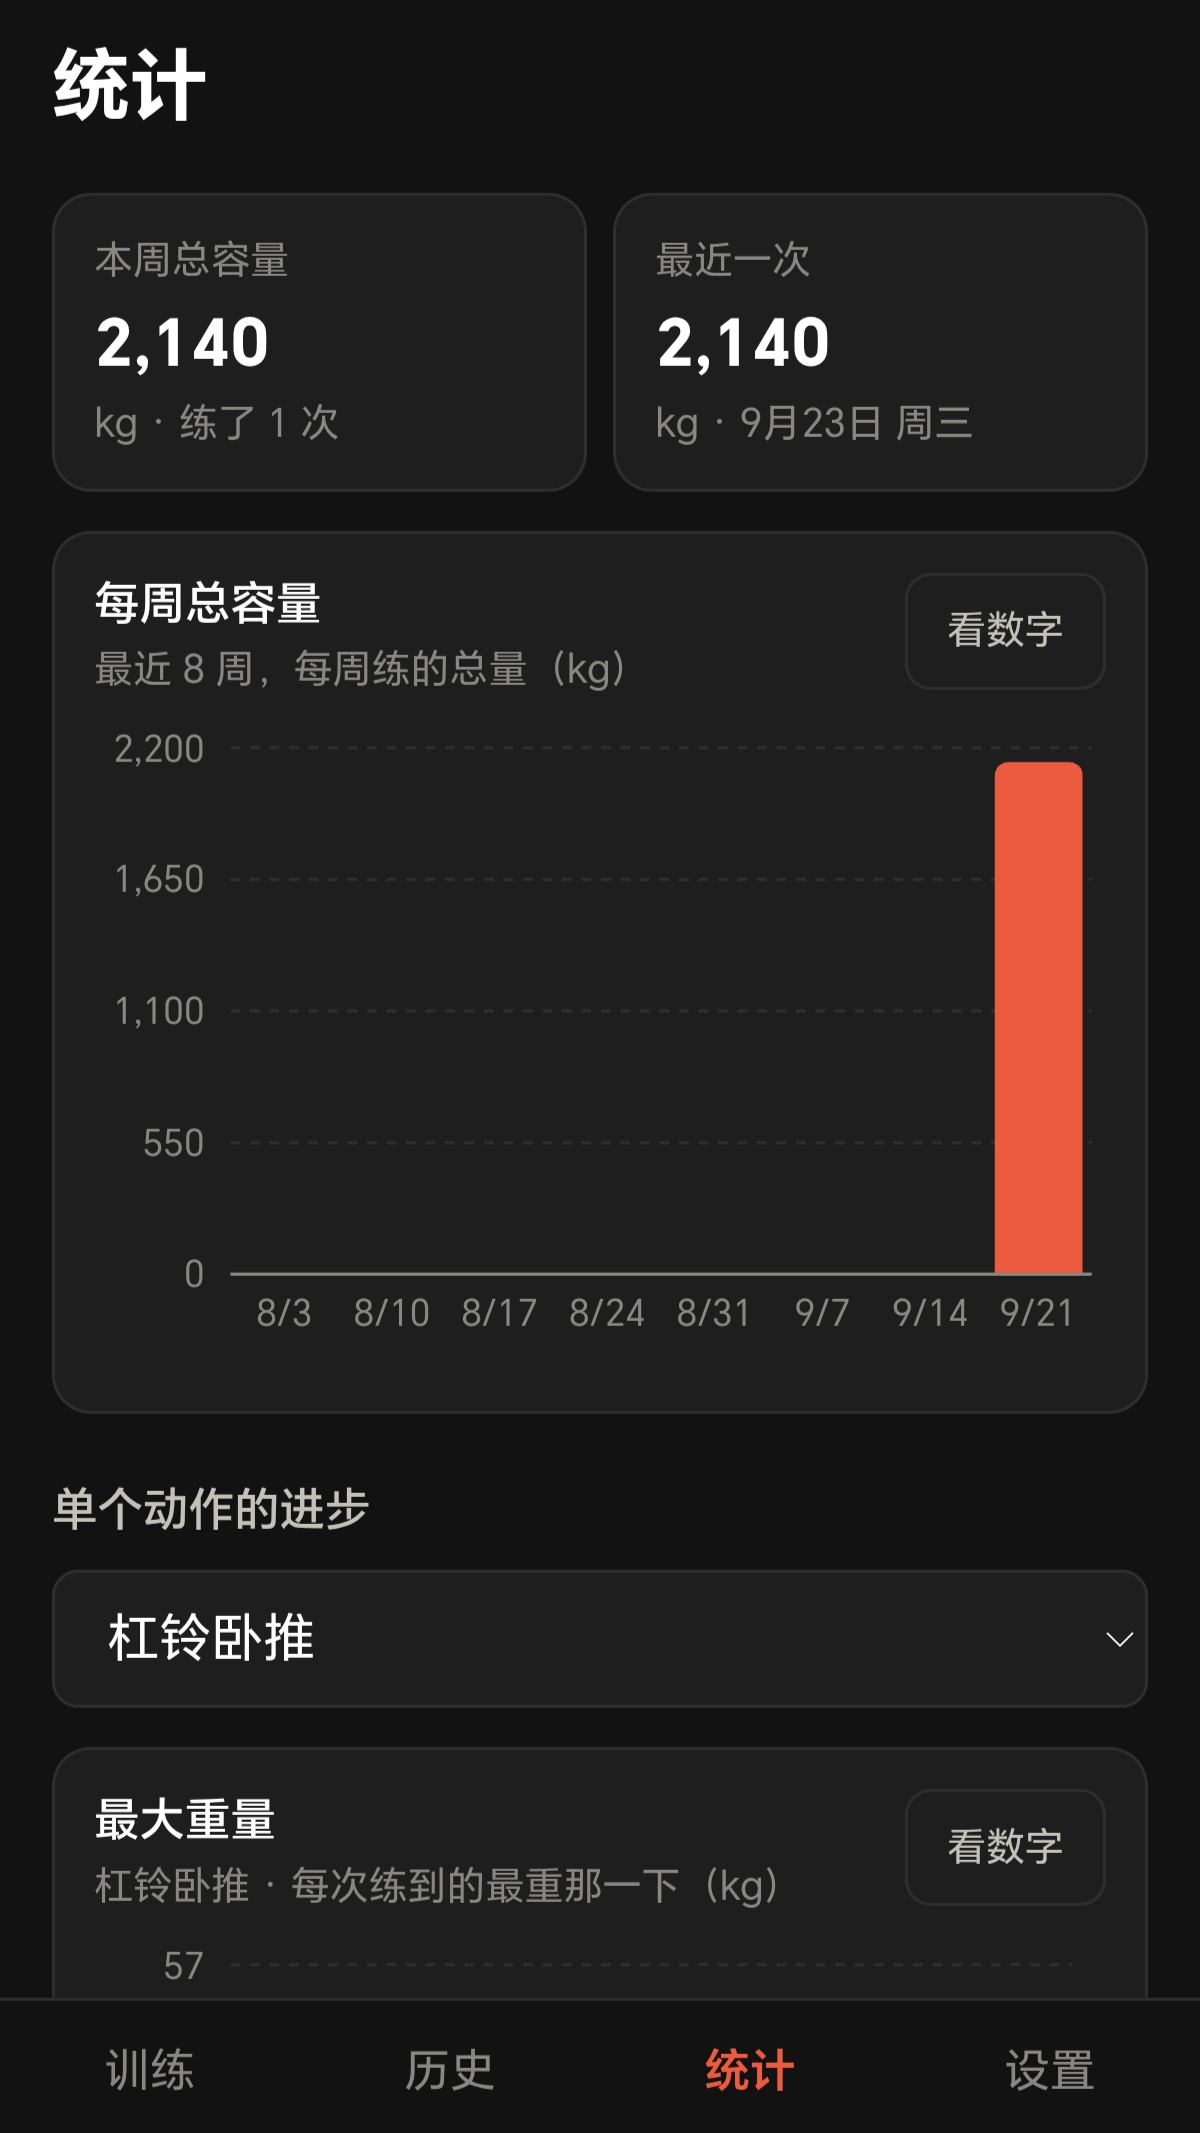
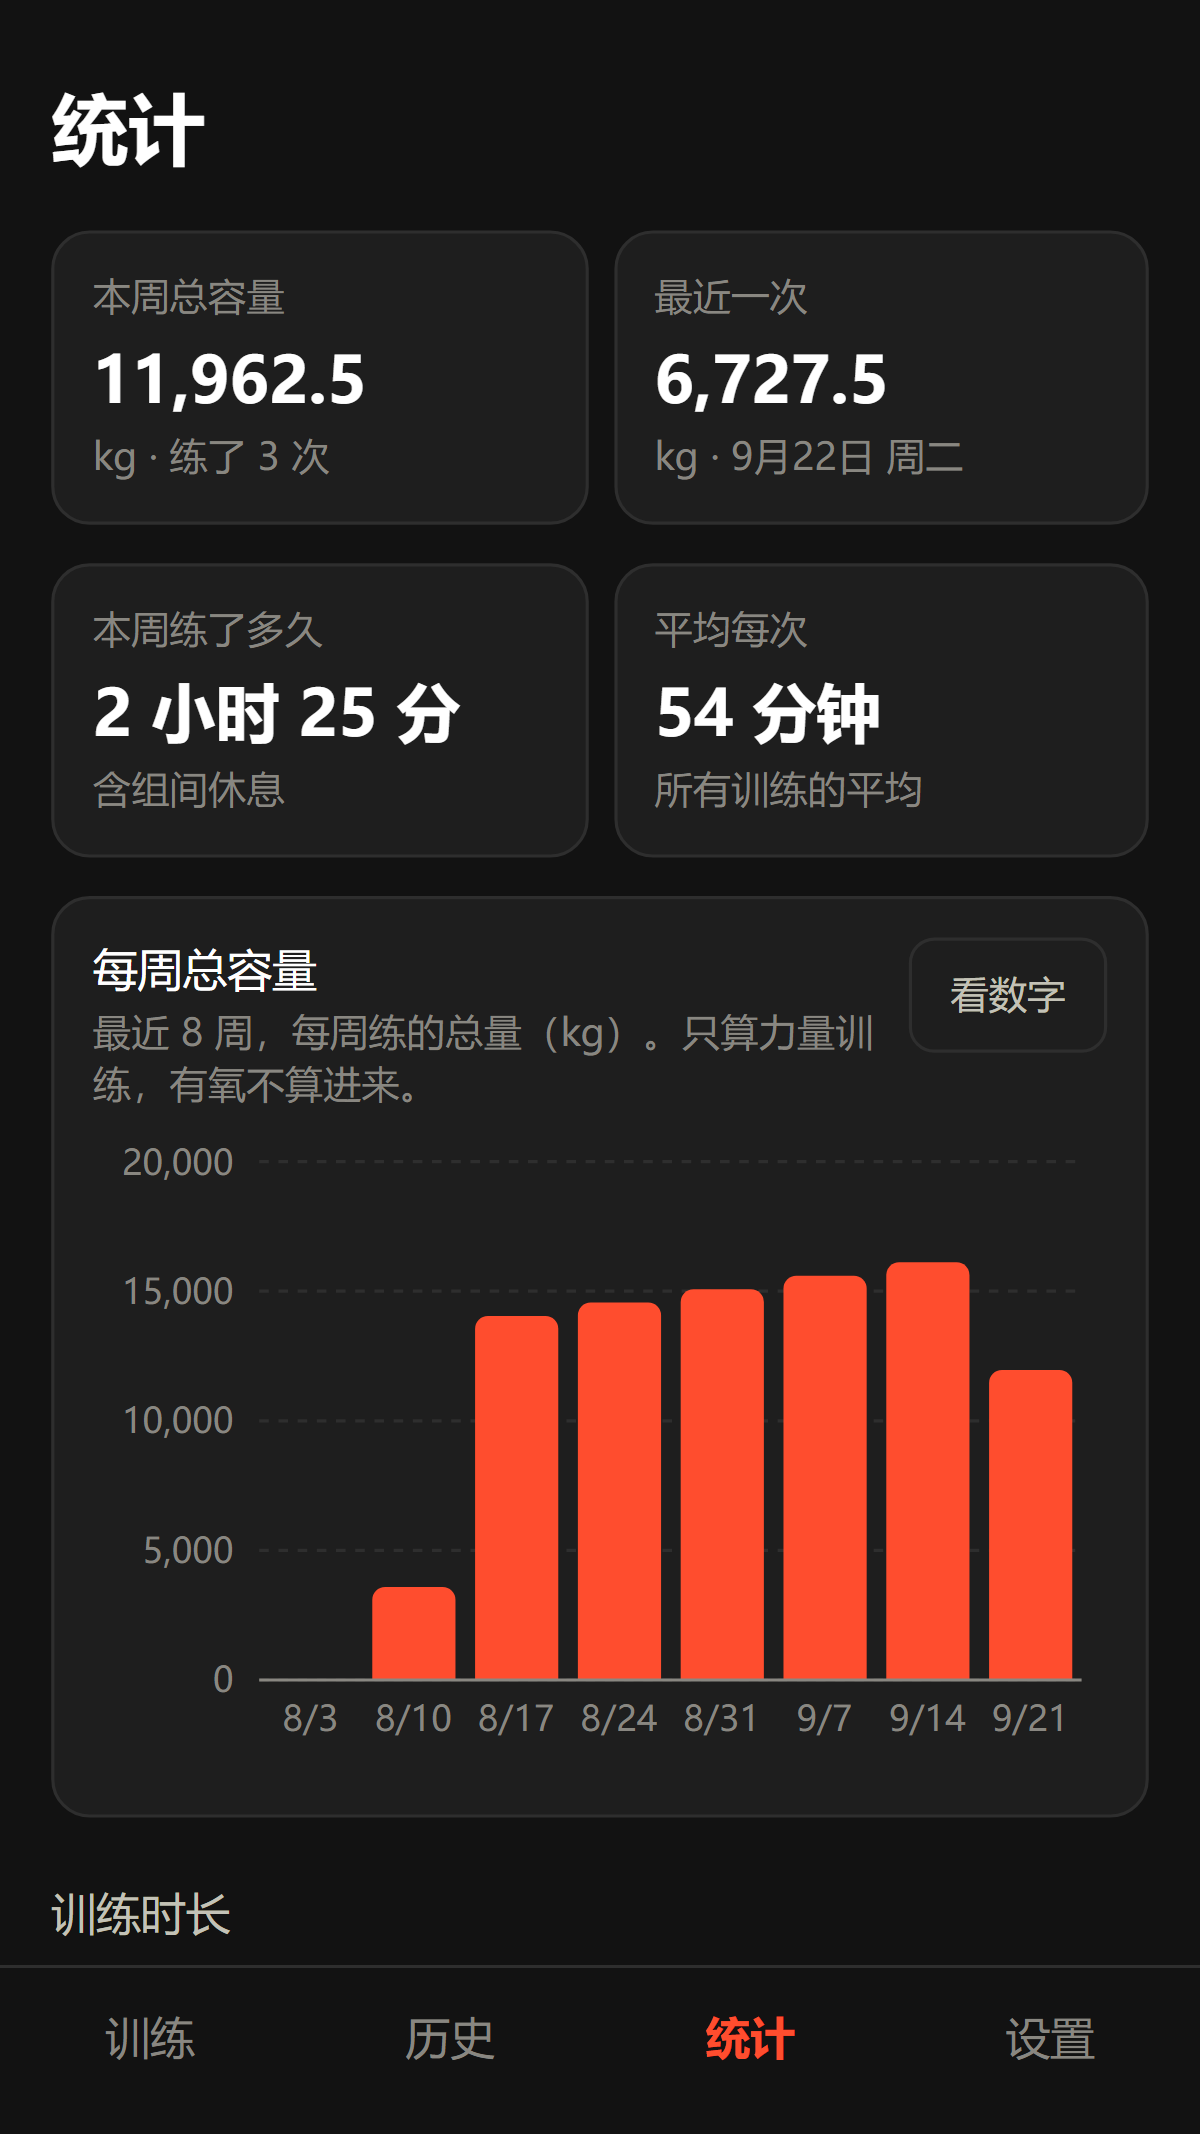
README：换掉三张过时的截图，更新"当前状态"
【为什么换截图】
原来那三张是 2026-09-23 拍的，比现在少了：
· 训练页顶部的"已练 XX 分钟"
· "+ 记有氧"按钮（有氧记录是 9-24 才加的）
而正文里"有氧记录"是重点介绍的功能之一 —— 图和正文对不上，
对公开仓库的首页来说这个不能忍。

新截图按原图同样的尺寸截（375×667 手机屏 ×3.2 = 1200×2133），
所以 README 里的排版一模一样，不用动。

【造数据的两个坑】
1. ★ 训练页一开始塞了"两个动作、四组"，结果底下的按钮排被切掉一半，
   "+ 记有氧"整个在屏幕外 —— 恰恰是最该露出来的那个。
   改成"一个动作、三组"之后，三个按钮 + 底部 tab 正好全在屏内。
2. 统计页原来那句"只练过一次，所以只有一根柱子"改成实话：
   造了 6 周、每周三次（推/拉/腿）+ 两次有氧 + 每周体重，
   柱状图是往上走的，四个数字卡片也都填满了。

【README 文字也跟着改了三处】
· "三张都是真机上直接截的"→"按手机尺寸直接截的"。
  ★ 不能把电脑截的说成真机截的 —— 渲染是同一份代码，但话得说准。
  同时说明里面是示例数据（不填的话统计页是空的）。
· 统计页的图注重写（原来那句"只有一根柱子"已经不成立）
· "当前状态"更新到 52ce72c，并把验收进度写准：
  9-23 验过；9-26 的 a112b45 真机两轮实测通过；
  它之后的两个包（118ff04、52ce72c）还没上过真机。

diff --git a/README.md b/README.md
@@ -15,7 +15,9 @@
 
 ## 长什么样
 
-三张都是**真机上直接截的**，没有美化。
+三张都是**按手机尺寸直接截的**（375×667），没有美化、没有修图。
+里面的训练记录是**示例数据** —— 不填点东西的话统计页那几张图是空的，
+没法看出它长什么样。界面本身是什么样，图上就是什么样。
 
 <p align="center">
   <img src="screenshots/train.png" width="600" alt="训练页" />
@@ -34,8 +36,9 @@
 <p align="center">
   <img src="screenshots/stats.png" width="600" alt="统计页" />
   <br />
-  <em>统计页 —— 每周总容量的柱状图（截这张时只练过一次，所以只有一根柱子）。<br />
-  往下还有单个动作的最大重量、总容量、估算 1RM 三条曲线。</em>
+  <em>统计页 —— 顶上四个数：本周总容量、最近一次、本周练了多久、平均每次。<br />
+  下面是每周总容量的柱状图；再往下还有训练时长趋势、单个动作的
+  最大重量 / 总容量 / 估算 1RM 三条曲线、有氧的记录、体重体脂。</em>
 </p>
 
 ---
@@ -307,14 +310,16 @@ cd android
 第一次跑要 2 分钟左右，之后改代码再打会快很多（改完网页代码要**先**
 `npm run build && npx cap sync android`，否则打进包里的是旧网页资源）。
 
-> ✅ **当前状态**：最新一个包是 **2026-09-26**。为了好找，另外复制了一份到
-> 仓库外面：`E:\Vibe Coding\Nanofit\安卓安装包\NanoFIT.apk`
+> ✅ **当前状态**：最新一个包是 **2026-09-26**（`2026.09.26 · 52ce72c`）。
+> 为了好找，另外复制了一份到仓库外面：
+> `E:\Vibe Coding\Nanofit\安卓安装包\NanoFIT.apk`
 >
-> ✅ **真机验收的进度**：
-> - **2026-09-23** —— 装到真机确认可用
-> - **2026-09-26（`a112b45`）** —— 装到真机，两轮实测：切到音乐 App / 微信 /
->   bilibili 三种场景提醒都生效，锁屏也生效，震动每次都有的。**这一版是验过的。**
-> - 再往后打的包（拆掉诊断脚手架、顺手删旧渠道那版）**还没在真机上跑过** ——
+> **真机验收的进度**（全仓库唯一一处"哪儿验过、哪儿没验过"的实话）：
+> - **2026-09-23** —— 装到真机，确认可用
+> - **2026-09-26 `a112b45`** —— 装到真机，两轮实测：切到音乐 App / 微信 /
+>   bilibili 三种场景提醒都生效，锁屏也生效，**震动每次都有的**。
+> - 它之后的**两个包都还没在真机上跑过**：`118ff04`（拆掉临时诊断、顺手删旧渠道）、
+>   `52ce72c`（强度档位从四档变五档、判定时排除热身组）。
 >   电脑上能验的都验了（见各次提交说明），但"装到手机上会不会出问题"
 >   只有装上去才知道。
 
